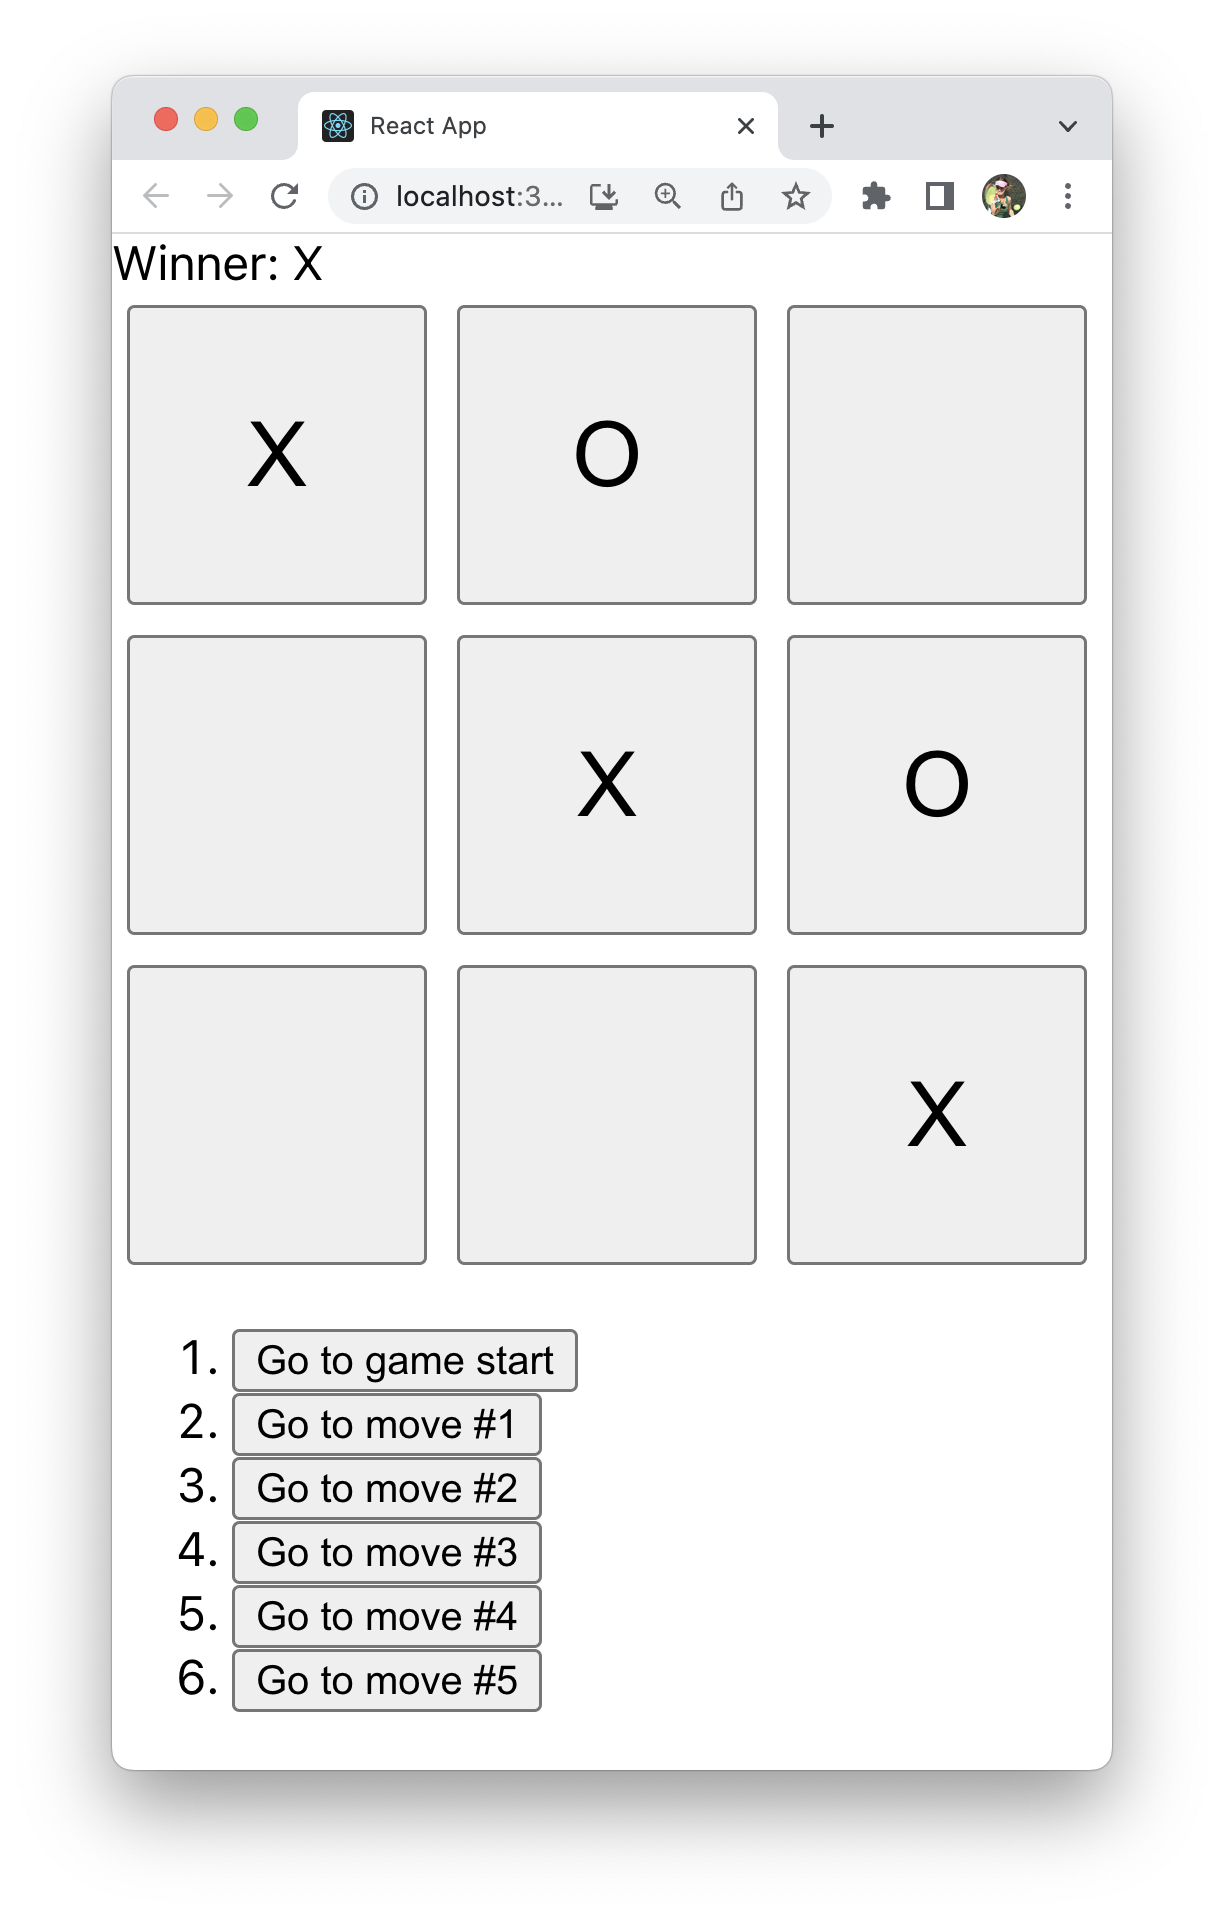
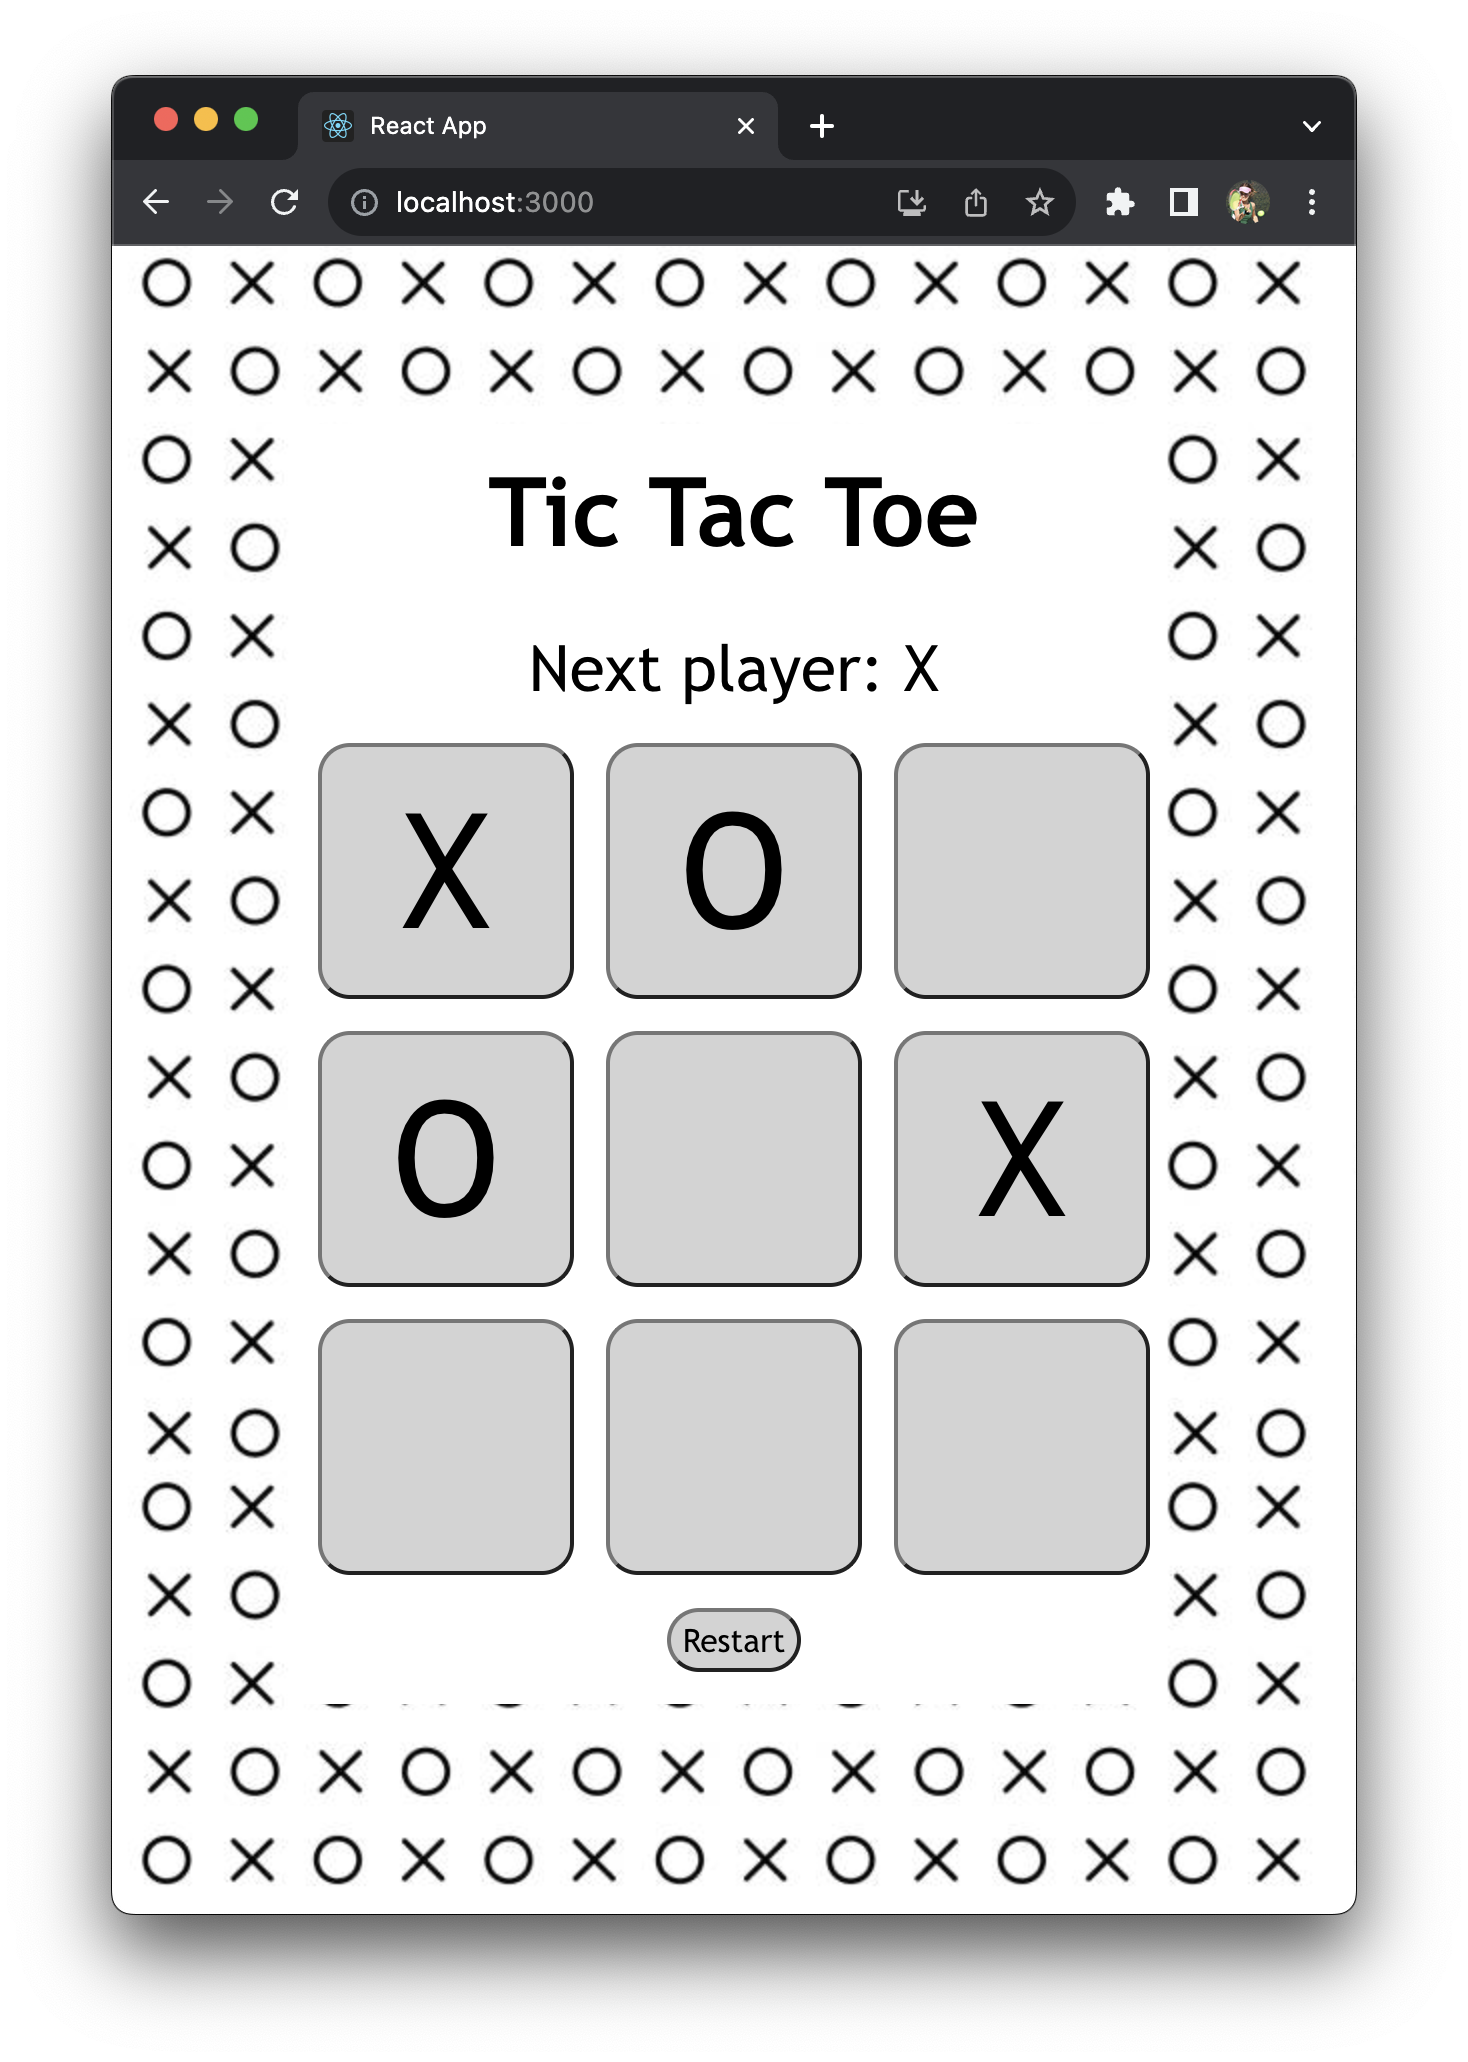
fix margins and change project.png

diff --git a/src/App.css b/src/App.css
@@ -12,6 +12,7 @@ body {
 
 .background {
   background: white;
+  max-height: 40rem;
 }
 
 h1 {
@@ -19,7 +20,7 @@ h1 {
   flex-wrap: wrap;
   justify-content: center;
   color: black;
-  font-size: 2rem; 
+  font-size: 3rem; 
   padding-top: 1rem;
 }
 
@@ -45,7 +46,7 @@ h1 {
 
 .status {
   color: black;
-  font-size: 2.5rem;
+  font-size: 2rem;
   display: grid;
   align-items: center;
   justify-content: center;
@@ -53,41 +54,25 @@ h1 {
   margin-bottom: 1rem;
 }
 
-.modal-container {
-  display: grid;
-  text-align: center;
-  margin: 2rem;
-  position: relative;
-  align-items: center;
-  justify-content: center;
-  justify-self: center;
-}
+.game-info {
+    display: flex;
+    justify-content: center;
+    align-items: center;
+    margin: 3rem;
+  }
 
-.modal-content {
-  position: fixed;
-  top: 50%;
-  left: 50%;
-  transform: translate(-50%, -50%);
-  z-index: 9999;
-  background-color: rgba(0, 0, 0, 0.5);
-  padding: 1rem;
+.game-info .button {
+  color: black;
+  font-size: 1rem;
   display: flex;
-  flex-direction: column;
   align-items: center;
   justify-content: center;
+  height: 2rem;
+  margin-bottom: 1rem;
 }
 
-.modal-inner {
-  color: black;
-  font-size: 1.5 rem;
-  max-width: 90vw;
-}
-
-.modal-container .button {
-  color: black;
-  background-color: lightgrey;
-  border-radius: 1rem;
-  font-size: 1.5rem;
+.game-board {
+  height: 34rem;
 }
 
 .button {
@@ -100,24 +85,13 @@ h1 {
   border-radius: 1rem;
 }
 
-.modal-inner button {
-  display: flex;
-  position: relative;
-  align-items: center;
-  justify-content: center;
-  color: black;
-  background-color: lightgrey;
-  height: 2rem;
-  width: 7rem;
-  margin-top: 1rem;
-}
-
 .moves {
   display: grid;
   place-items: center;
   grid-template-columns: repeat(3, 1fr);
   grid-gap: 1rem;
   list-style-type: none;
+  overflow-y: auto;
 }
 
 .moves button {
@@ -137,7 +111,7 @@ h1 {
   .square {
     height: 8rem;
     width: 8rem;
-    font-size: 3rem;
+    font-size: 5rem;
   }
 
   .status {

diff --git a/src/App.js b/src/App.js
@@ -67,25 +67,6 @@ function Board({ xIsNext, squares, onPlay }) {
           <Square value={squares[8]} onSquareClick={() => handleClick(8)} />
         </div>
         </div>
-        <div className='modal-container'>
-          <button className='button' onClick={openModal}>Rules</button>
-          <Modal
-            className = 'modal'
-            isOpen={modalIsOpen}
-            onAfterOpen={afterOpenModal}
-            onRequestClose={closeModal}
-            contentLabel="Example Modal"
-          >
-            <div className='modal-inner'>
-              <h2>Rules</h2>
-              <ul>Players take turns putting their marks in empty squares.</ul>
-              <ul>The first player to get 3 of her marks in a row (up, down, across, or diagonally) is the winner.</ul>
-              <ul>When all 9 squares are full, the game is over.</ul>
-              <ul>If no player has 3 marks in a row, the game ends in a tie.</ul>
-              <button className='button' onClick={closeModal}>Back</button>
-            </div>
-        </Modal>
-        </div>
       </>
     );
   }
@@ -120,6 +101,11 @@ function Board({ xIsNext, squares, onPlay }) {
       );
     });
 
+    function restartGame() {
+      setHistory([Array(9).fill(null)]);
+      setCurrentMove(0);
+    }
+
     return (
       <div className= "background">
       <div className="game">
@@ -127,7 +113,7 @@ function Board({ xIsNext, squares, onPlay }) {
           <Board xIsNext={xIsNext} squares={currentSquares} onPlay={handlePlay} />
         </div>
         <div className="game-info">
-          <ol className='moves'>{moves}</ol>
+        <button className="button" onClick={restartGame}>Restart</button>
         </div>
       </div>
       

diff --git a/README.md b/README.md
@@ -2,7 +2,7 @@
 
 ![Project Image](resources/project.png)
 
-Created following https://react.dev/learn/tutorial-tic-tac-toe
+Tic tac toe game
 
 ## Technologies
 
